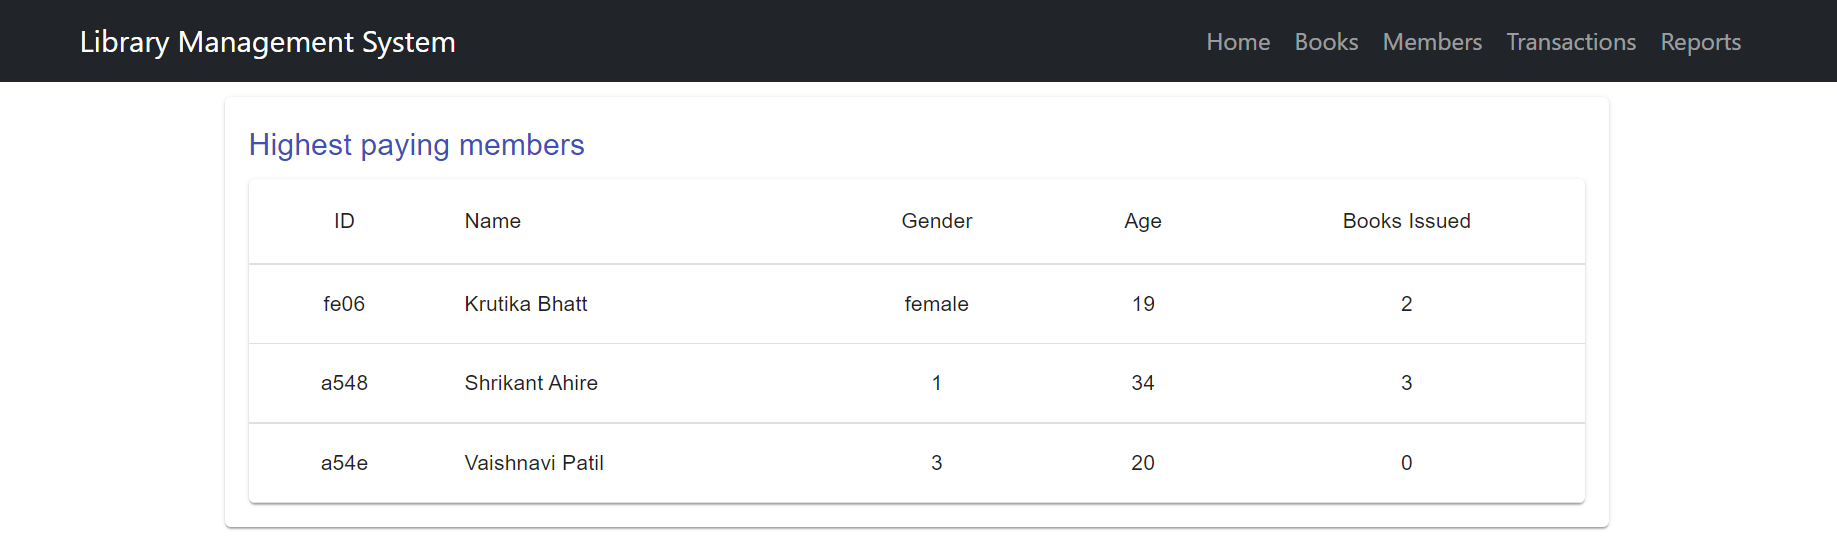
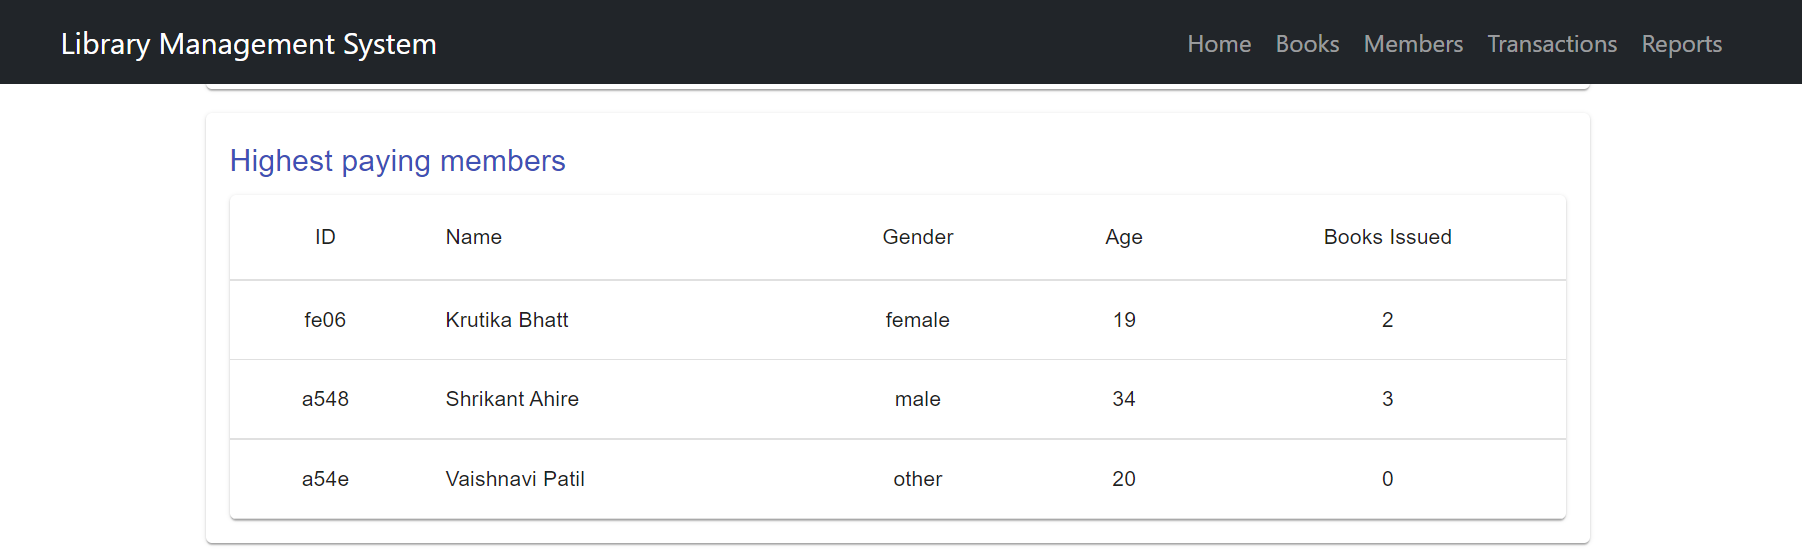
Gender select handled

diff --git a/src/pages/members/add_member.js b/src/pages/members/add_member.js
@@ -57,9 +57,9 @@ function AddMember(){
                 <Form.Label style={{fontSize:20,marginTop:20}}>Gender</Form.Label>
                 <Form.Select aria-label="Select gender" style={{width:"500px"}} onChange={(e) => setGender(e.target.value)}>
                         <option>Open this select menu</option>
-                        <option value="1">Male</option>
-                        <option value="2">Female</option>
-                        <option value="3">Other</option>
+                        <option value="male">Male</option>
+                        <option value="female">Female</option>
+                        <option value="other">Other</option>
                 </Form.Select>
                 </Form>
             </Container>
